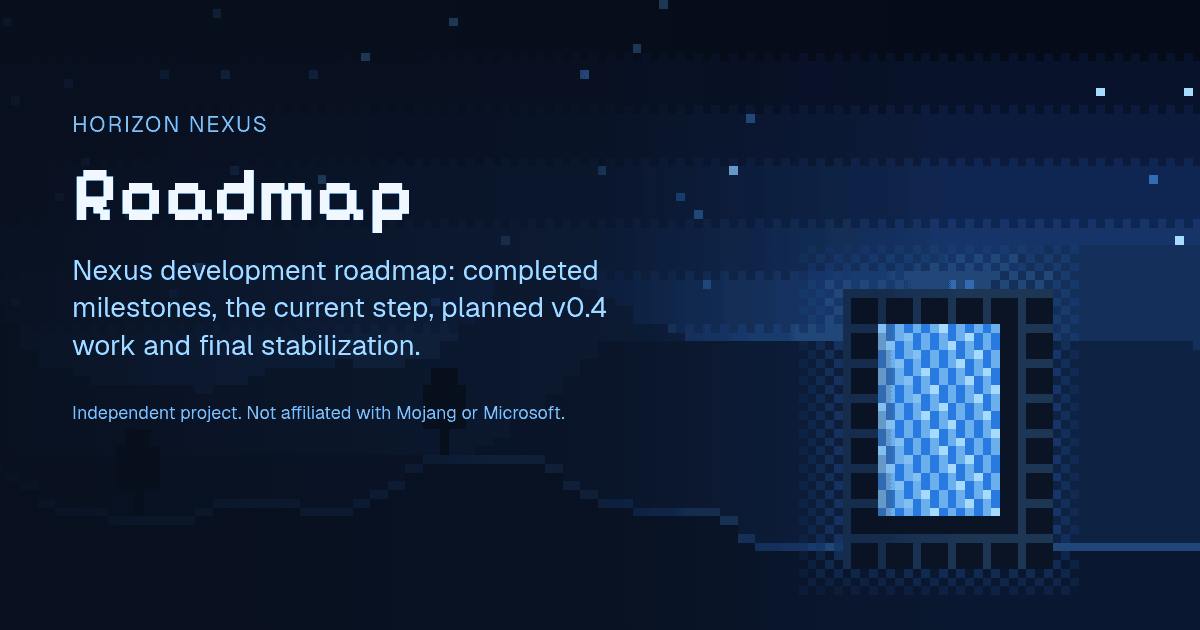
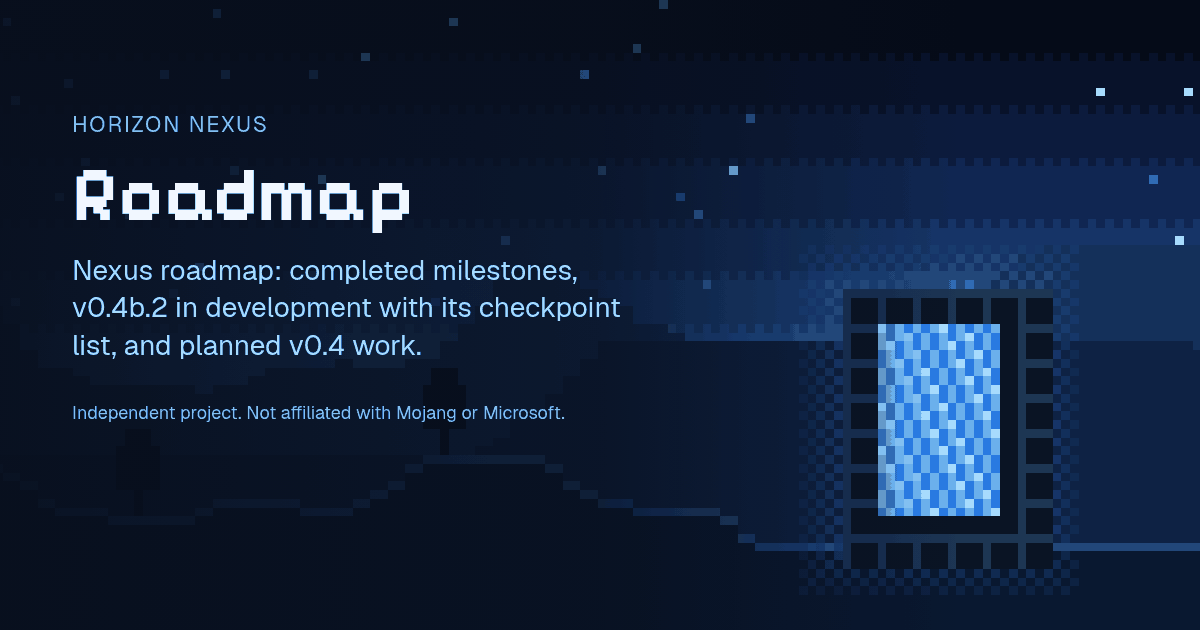
v0.4b.2 progress: calm status card, checkpoint roadmap, Development page, simpler nav
- Home: new hero and static status card (latest v0.4b.1, building v0.4b.2, 84 tests at latest checkpoint, not yet released)
- Roadmap: v0.4b.2 checkpoint checklist (4.1b next), then v0.4c, v0.4d, Final hardening; v0.4b.3/v0.4b.4 dropped
- New Development page; nav is Home, Features, Roadmap, Development; other pages moved to footer
- Plain-language security notes, planned scope, downloads availability line
- Fix pixel font fi ligature site-wide

Changed region(s): [[0.0617, 0.4222, 0.5242, 0.573]]

diff --git a/src/style.css b/src/style.css
@@ -618,3 +618,38 @@ a.button:active, button.button:active { transform: translateY(2px); }
 .docs-search { display: flex; align-items: center; min-height: 40px; margin-top: 8px; padding: 4px 12px; font: 600 14px/1 var(--pixel); color: var(--highlight); background: var(--well); border: 2px solid var(--outline); text-decoration: none; }
 .docs-search::before { content: "\2315"; margin-right: 8px; }
 .docs-search:hover { background: var(--raised); }
+
+/* v6: calm status card, checkpoint list (no animation) */
+.hero-tag { font: 600 clamp(20px, 2.4vw, 28px)/1.25 var(--pixel); color: var(--highlight); margin: 8px 0 12px; }
+.hero-display { text-transform: none; max-width: none; }
+.status-card { background: var(--panel); border: 2px solid var(--outline); box-shadow: var(--panel-edges); padding: 18px 20px; display: grid; gap: 12px; align-self: center; }
+.status-head { display: flex; align-items: center; gap: 10px; }
+.status-icon { line-height: 0; }
+.status-title { margin: 0; font: 600 18px/1.2 var(--pixel); color: var(--ink); }
+.status-list { margin: 0; display: grid; gap: 0; }
+.status-list > div { display: grid; grid-template-columns: minmax(0, 11em) minmax(0, 1fr); gap: 12px; padding: 9px 0; border-top: 1px solid var(--outline); }
+.status-list dt { color: var(--muted); font-size: 14px; }
+.status-list dd { margin: 0; color: var(--ink); font-weight: 600; font-size: 15px; }
+.status-note { margin: 0; font-size: 14px; color: var(--ink-soft); line-height: 1.5; }
+.status-link { font: 600 14px/1 var(--pixel); color: var(--highlight); padding: 6px 0; display: inline-flex; min-height: 28px; align-items: center; }
+@media (max-width: 480px) { .status-list > div { grid-template-columns: 1fr; gap: 2px; } }
+.checklist { list-style: none; margin: 8px 0 12px; padding: 0; display: grid; gap: 4px; }
+.checklist li { display: grid; grid-template-columns: 14px minmax(0, 1fr) auto; align-items: center; gap: 10px; padding: 8px 12px; background: var(--well); border: 2px solid var(--outline); font-size: 15px; }
+.ck-mark { width: 12px; height: 12px; box-sizing: border-box; }
+.ck-done .ck-mark { background: var(--success); }
+.ck-next .ck-mark { background: var(--warn); }
+.ck-planned .ck-mark { border: 2px dashed var(--border); }
+.ck-state { font: 600 12px/1 var(--pixel); text-transform: uppercase; letter-spacing: .04em; color: var(--muted); }
+.ck-done .ck-state { color: var(--success); } .ck-next .ck-state { color: var(--warn); }
+.ck-next { border-color: var(--warn) !important; }
+.next-ck { margin: 0 0 12px; }
+.plain-points { margin: 8px 0 0; padding-left: 20px; display: grid; gap: 6px; max-width: 70ch; }
+.plain-points li { line-height: 1.55; }
+.link-grid { list-style: none; margin: 8px 0 0; padding: 0; display: grid; grid-template-columns: repeat(auto-fill, minmax(min(100%, 220px), 1fr)); gap: 8px; }
+.link-grid a { display: grid; gap: 4px; padding: 12px 14px; min-height: 44px; background: var(--panel); border: 2px solid var(--outline); text-decoration: none; color: var(--ink-soft); }
+.link-grid a:hover { background: var(--raised); }
+.link-grid b { font: 600 15px/1.2 var(--pixel); color: var(--ink); }
+/* The pixel font joins "fi" into a glyph that misreads (e.g. "first" looks like "Arst"). Turn ligatures off everywhere. */
+*, *::before, *::after { font-variant-ligatures: none; font-feature-settings: "liga" 0, "clig" 0, "dlig" 0; }
+.for-devs h3 + ul, .for-devs ul + h3 { margin-top: 12px; }
+.for-devs h3 { margin-top: 20px; }

diff --git a/AGENTS.md b/AGENTS.md
@@ -20,14 +20,15 @@ To add an agent: copy an existing profile, keep every section (role, responsibil
 
 ## Rules for everyone
 
-- **Accuracy.** Every claim about Nexus lives in `src/content.mjs` or `src/docs.mjs` and must come from the maintainer. Label it developer-reported; show commit ids as plain text, never as upstream links. Do not invent APIs, stage names, install steps or downloads. v0.4a is completed and committed (fb43e5954, developer-reported) but is only a metadata, discovery and resolution library: it does not install or run mods. The pre-v0.4b audit is completed (8f809e822). v0.4b.1 is complete (9198d320e, developer-reported). v0.4b.2 is "In development" (current). Never call it complete, and never imply mod installation or native compilation works. v0.4b.3, v0.4b.4 and v0.4c to d are planned. Capability metadata is declarative only; .nmod installation is not available. Later steps stay "Planned" until the maintainer gives new evidence. No public release exists: use "No public standalone Nexus release is available yet." v0.4 is the last planned feature milestone: no v0.5, v1.0, dates or percentages. Fabric, Forge and NeoForge are out of scope; only the two fixed sentences in `src/content.mjs` (NO_JAVA, OUT_OF_SCOPE) may mention them. Future modules (Performance, Cinematics, World Tools, Quality of Life) are ideas, never deliverables.
+- **Accuracy.** Every claim about Nexus lives in `src/content.mjs` or `src/docs.mjs` and must come from the maintainer. Label it developer-reported; show commit ids as plain text, never as upstream links. Do not invent APIs, stage names, install steps or downloads. v0.4a is completed and committed (fb43e5954, developer-reported) but is only a metadata, discovery and resolution library: it does not install or run mods. The pre-v0.4b audit is completed (8f809e822). v0.4b.1 is complete (9198d320e, developer-reported). v0.4b.2 is "In development" (current). Never call it complete, and never imply mod installation or native compilation works. v0.4c, v0.4d and Final hardening are planned (v0.4b.3 and v0.4b.4 were dropped as separate steps). Capability metadata is declarative only; .nmod installation is not available. Later steps stay "Planned" until the maintainer gives new evidence. No public release exists: use "No public standalone Nexus release is available yet." v0.4 is the last planned feature milestone: no v0.5, v1.0, dates or percentages. Fabric, Forge and NeoForge are out of scope; only the two fixed sentences in `src/content.mjs` (NO_JAVA, OUT_OF_SCOPE) may mention them. Future modules (Performance, Cinematics, World Tools, Quality of Life) are ideas, never deliverables.
 - **Upstream is read-only.** Never modify, fork, push to or open issues or PRs on any horizon-rust repository.
 - **Original art only.** No Minecraft textures or assets. Keep the Mojang non-affiliation notice in the footer.
 - **Base path.** Build every internal URL with `u()` in `build.mjs`. The site is served under `/horizon-nexus-site/`.
 - **No secrets.** Nothing in `.env`, no tokens in code or workflows.
 - **No licence file** until the maintainer chooses a licence. Fonts keep their OFL notices in `public/fonts/`.
 - **Copy:** plain and short. No em-dashes anywhere on the site (a test enforces it).
-- **Home banner.** The dark-blue "CRISIS AVERTED. BACK TO BUILDING" banner (`BUILDING` in `src/content.mjs`) is comedic but honest: v0.4b.2 was briefly paused to check repository state, was recovered, and is back in development (30 October 2026). Never call it complete, never mention breaches, outages or lost work. Its bar is indeterminate (no percentage) and every animation stops under reduced motion.
+- **Home status card.** The home page has no banner or animation. It shows the calm static status card (`STATUS` and `AVAILABILITY` in `src/content.mjs`): latest completed, in development, internal tests, public availability. Never imply 84 tests means production-ready. Checkpoint detail (`CHECKPOINTS`, `NEXT_CHECKPOINT`) lives on Roadmap and Development only. Never mark 4.1b complete until the maintainer reports it passing. Older Horizon workspace ZIP dependencies are mentioned only in the Development page developer notes. No workstation paths or recovery details anywhere.
+- **Navigation.** Top nav is Home, Features, Roadmap, Development. Docs, Releases, FAQ, Search, Architecture, Downloads and Contributing are linked from the footer, the phone menu and the Development page.
 - **Cache busting.** CSS and JS links carry `?v=<content hash>` from `build.mjs`; keep it so phones get fresh styles.
 - **Shared components (v4.0).** Docs use the folding `docs-toc` list (open on wide screens, folded on phones). Roadmap has jump links and folds long completed lists in `more-items`. The footer `foot-status` and the phone menu `menu-status` read the current milestone from `CURRENT_MS`; never hard-code a status there. Every page carries OG and Twitter meta.
 - **v5 components.** Search is static: `build.mjs` writes `search.json`, `src/search.js` filters it in the browser; no services. Share images live in `public/og/` and are made by `node scripts/raster.mjs` from each page title and description; re-run it when those change. Releases keep only the newest milestone open. Tables get `data-label`s so they stack on phones. Keep the full source note on Start here only; other doc pages use the one-line `src-tag`. No light theme: the launcher look is dark by design.

diff --git a/README.md b/README.md
@@ -4,7 +4,7 @@
 
 The website for Horizon Nexus, the Rust-native modding framework and mod loader for the [Horizon](https://github.com/horizon-rust/horizon) engine. Live at **https://contactjayclatty.github.io/horizon-nexus-site/**.
 
-Nexus status (developer-reported, from an independent development branch; not verified against public upstream): v0.1 Systems Runtime, v0.2 Engine Integration and v0.3 Typed Inter-System Events are complete. v0.4 (Complete Nexus Framework and Mod Loader) is the last planned feature milestone: v0.4a (manifest validation and dependency resolution), the pre-v0.4b audit and v0.4b.1 (native registration foundation, 9198d320e, 30 October 2026) are complete. v0.4b.2 (secure .nmod package staging and generated registration) was briefly paused to check repository state, was recovered and is back in development; v0.4b.3, v0.4b.4 and v0.4c to d are planned. External .nmod installation is not available yet. No public standalone Nexus release is available yet. Then stabilization, then a pause. Nexus is compiled into the engine; there is no installer.
+Nexus status (developer-reported, from an independent development branch; not verified against public upstream): v0.1 core runtime and lifecycle, v0.2 world events and command integration, v0.3 typed event bus and deterministic dispatch, v0.4a manifest discovery and dependency resolution, the pre-v0.4b audit and v0.4b.1 native mod registration foundations are complete. v0.4b.2 (secure package loading and installation foundations) is in development: ZIP preflight checkpoints 3.1 to 4.1a are complete, 4.1b (SHA-256 archive identity) is next, and 84 internal tests pass at the latest reported checkpoint. v0.4c, v0.4d and a final hardening stage are planned. No public Nexus binary, installer or .nmod download exists.
 
 > Not an official Minecraft product. Not approved by or associated with Mojang or Microsoft. Not an official or endorsed part of upstream Horizon.
 
